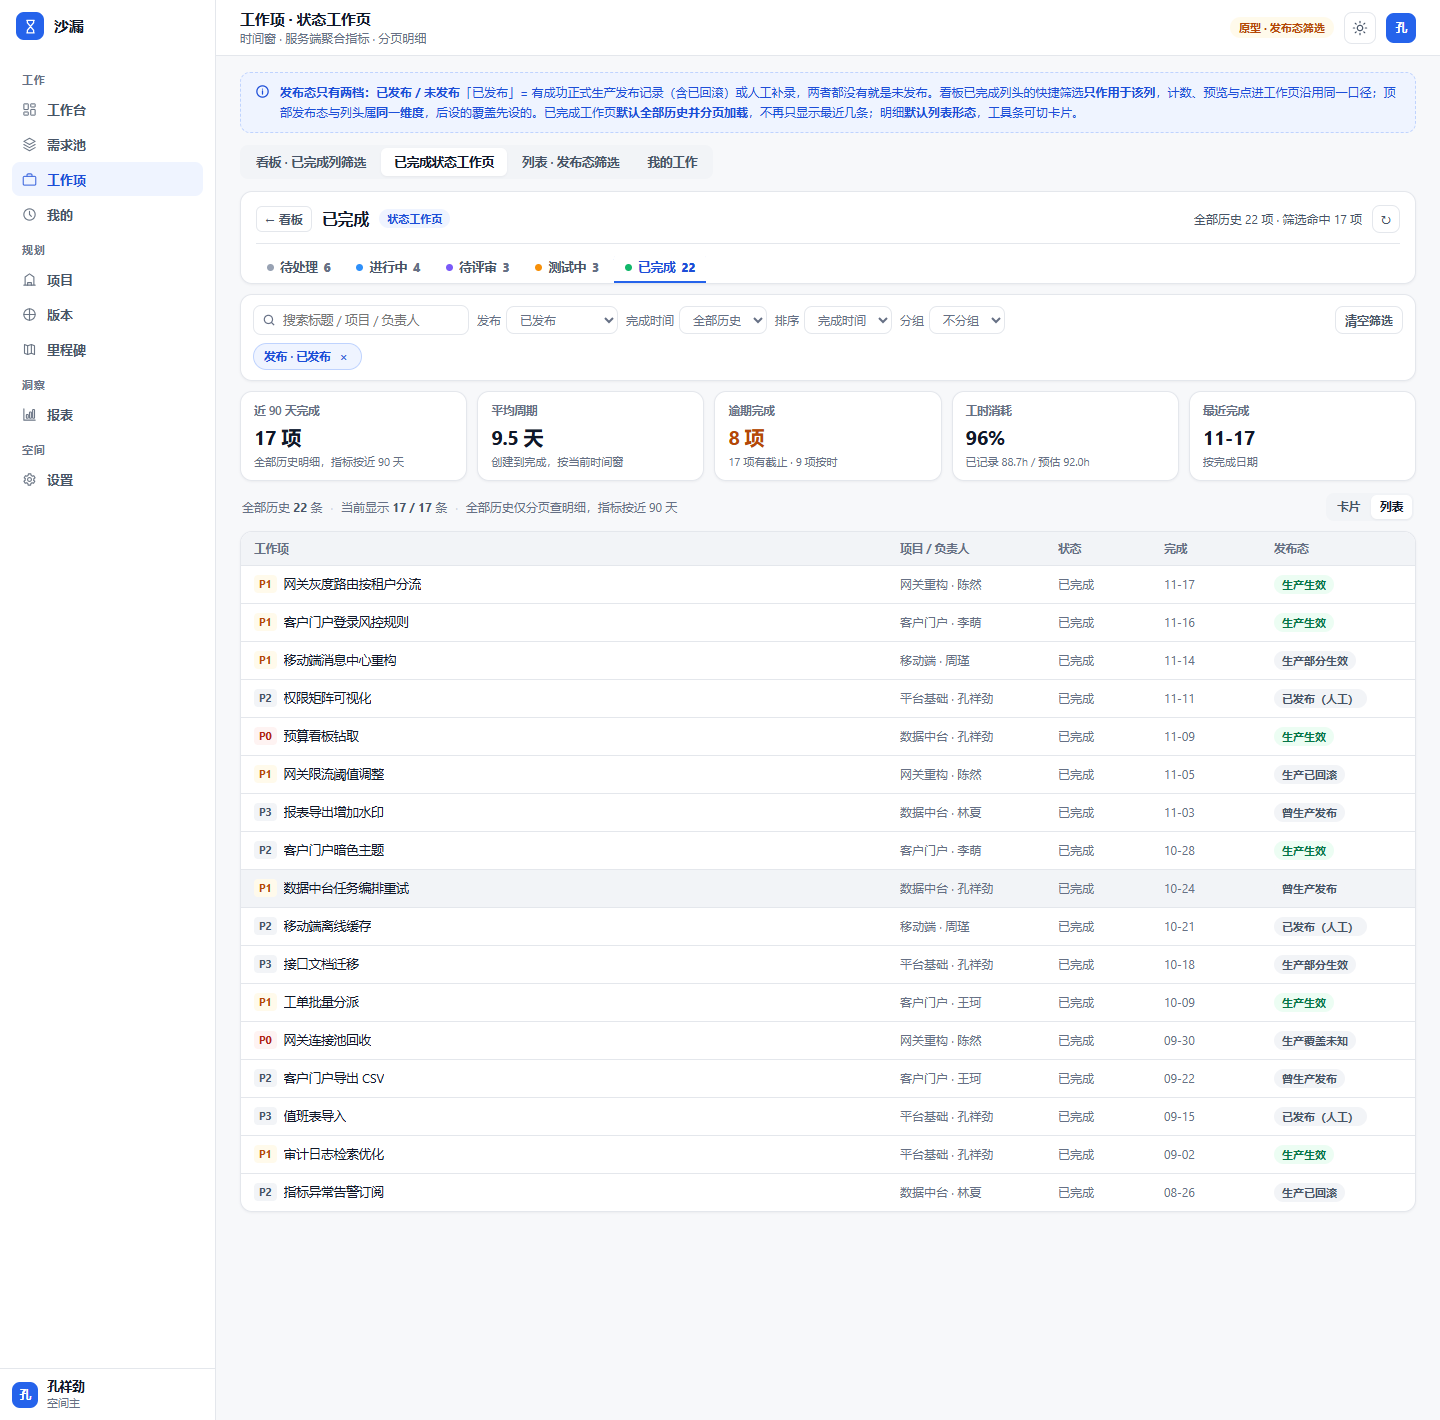
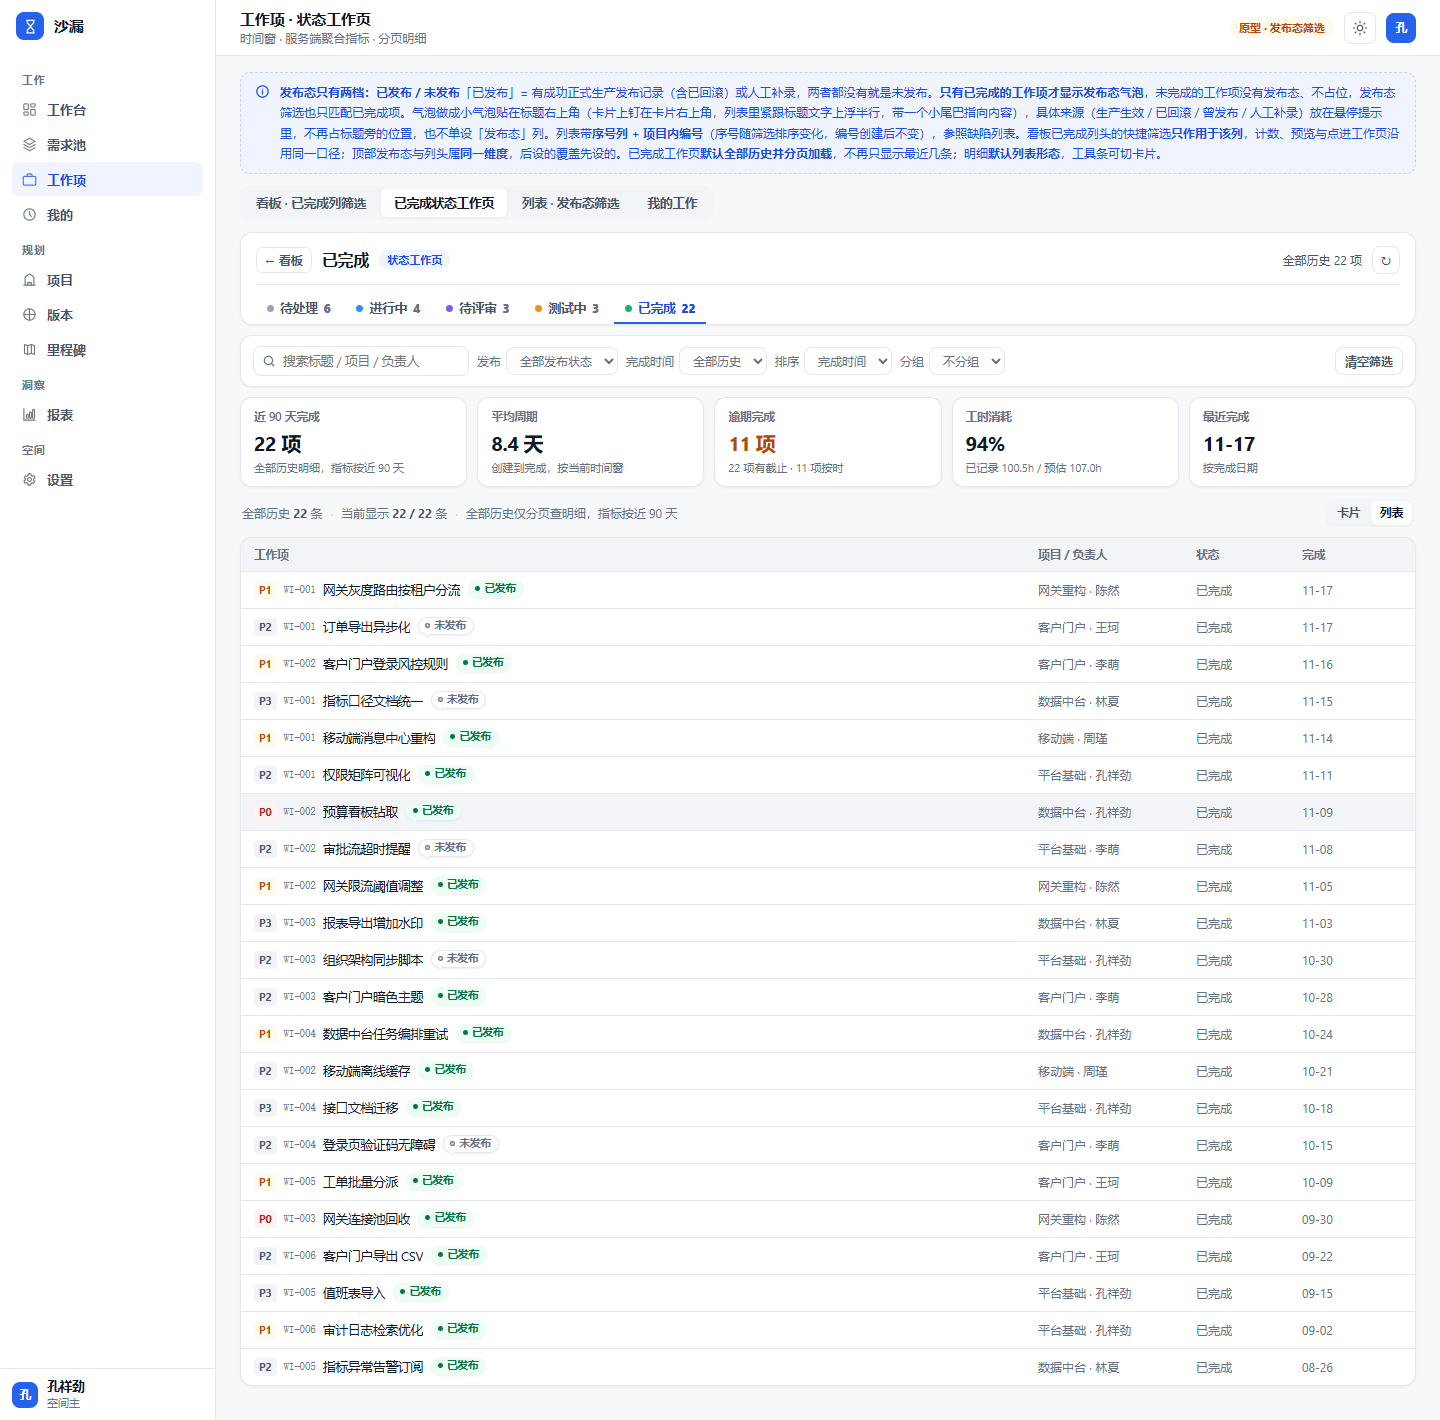
docs: 发布态改为标题右上气泡，且只标已完成工作项

diff --git a/docs/preview/workitems-pubstate-preview-2026-11-17.html b/docs/preview/workitems-pubstate-preview-2026-11-17.html
@@ -119,7 +119,8 @@ input:focus,select:focus{outline:2px solid var(--primary);outline-offset:1px;bor
 .tcard::before{content:"";position:absolute;left:0;top:0;bottom:0;width:3px;background:var(--stripe,var(--border-strong));}
 .tcard:hover{border-color:var(--border-strong);}
 .tcard.is-done::before{background:var(--success);}
-.tcard-head{display:flex;align-items:flex-start;gap:7px;}
+.tcard-head{display:flex;align-items:flex-start;gap:7px;padding-right:12px;}
+.tcard.is-done .tcard-head{padding-right:62px;}
 .pri{flex:0 0 auto;font-size:10.5px;font-weight:700;padding:1px 5px;border-radius:4px;line-height:16px;background:var(--surface-sunken);color:var(--text-2);}
 .pri.P0{background:var(--danger-soft);color:var(--danger-fg);}
 .pri.P1{background:var(--warning-soft);color:var(--warning-fg);}
@@ -142,6 +143,18 @@ input:focus,select:focus{outline:2px solid var(--primary);outline-offset:1px;bor
 .tag.tag-neutral{background:var(--surface-sunken);color:var(--text-2);}
 .tag.tag-ghost{background:transparent;border-color:var(--border);color:var(--text-3);font-weight:500;}
 .tag.cat{background:var(--surface-sunken);color:var(--text-3);font-weight:500;}
+/* 发布态二值气泡：贴在卡片右上角 / 标题文字右上，带小尾巴指向内容 */
+.pub-bubble{position:relative;display:inline-flex;align-items:center;gap:4px;height:18px;padding:0 7px 0 6px;border-radius:var(--r-pill);border:1px solid var(--border);background:var(--surface);color:var(--text-3);font-size:10.5px;font-weight:650;line-height:1;white-space:nowrap;box-shadow:0 1px 2px rgba(15,23,42,.07);}
+.pub-bubble.pin{position:absolute;top:8px;right:10px;z-index:2;}
+.pub-bubble::after{content:"";position:absolute;left:5px;bottom:-2.5px;width:5px;height:5px;background:inherit;border-right:1px solid var(--border);border-bottom:1px solid var(--border);transform:rotate(45deg);border-radius:0 0 1px 0;}
+.pub-bubble .bd{width:5px;height:5px;border-radius:50%;background:currentColor;flex:0 0 auto;}
+.pub-bubble.is-on{background:var(--success-soft);border-color:transparent;color:var(--success-fg);}
+.pub-bubble.is-on::after{border-color:transparent;}
+.pub-bubble:not(.is-on) .bd{background:transparent;box-shadow:inset 0 0 0 1.4px var(--text-3);}
+/* 标题右上：气泡上浮到标题文字的上缘，紧跟标题、不挤占第二行 */
+.row2 .r1 > .pub-bubble,.wc-row .t > .pub-bubble{flex:0 0 auto;align-self:flex-start;margin:-1px 0 0 1px;}
+.legend .pub-bubble{position:static;box-shadow:none;}
+.legend .pub-bubble::after{display:none;}
 /* ---------- 工作页 ---------- */
 .wc-head{padding:13px 15px 0;display:flex;flex-direction:column;gap:10px;}
 .wc-head-top{display:flex;align-items:center;gap:10px;flex-wrap:wrap;}
@@ -179,12 +192,12 @@ input:focus,select:focus{outline:2px solid var(--primary);outline-offset:1px;bor
 .wc-group-head{display:flex;align-items:center;gap:8px;padding:8px 2px 2px;font-size:12px;font-weight:700;color:var(--text-2);}
 .wc-group-head .n{font-size:11.5px;font-weight:600;color:var(--text-3);}
 .wc-list{background:var(--surface);border:1px solid var(--border);border-radius:var(--r-lg);overflow:hidden;box-shadow:var(--shadow-xs);}
-.wc-row{display:grid;grid-template-columns:minmax(0,1fr) 148px 96px 100px 128px;align-items:center;gap:10px;padding:9px 13px;border-bottom:1px solid var(--border);font-size:12.5px;}
+.wc-row{display:grid;grid-template-columns:minmax(0,1fr) 148px 96px 100px;align-items:center;gap:10px;padding:9px 13px;border-bottom:1px solid var(--border);font-size:12.5px;}
 .wc-row:last-child{border-bottom:0;}
 .wc-row:hover{background:var(--surface-hover);}
 .wc-row-head{background:var(--surface-sunken);font-size:11.5px;font-weight:650;color:var(--text-3);text-transform:none;}
 .wc-row .t{display:flex;align-items:center;gap:7px;min-width:0;}
-.wc-row .t span{overflow:hidden;text-overflow:ellipsis;white-space:nowrap;}
+.wc-row .t > .t-title{overflow:hidden;text-overflow:ellipsis;white-space:nowrap;min-width:0;}
 .wc-row .muted{color:var(--text-3);font-size:12px;}
 .wc-empty{display:flex;flex-direction:column;align-items:center;justify-content:center;gap:8px;padding:46px 16px;background:var(--surface);border:1px solid var(--border);border-radius:var(--r-lg);color:var(--text-3);text-align:center;}
 .wc-empty h3{font-size:14px;font-weight:650;color:var(--text);}
@@ -201,6 +214,10 @@ td{padding:10px 13px;border-bottom:1px solid var(--border);vertical-align:middle
 .row2 .r1{display:flex;align-items:center;gap:7px;min-width:0;font-weight:600;color:var(--text);}
 .row2 .r1 > span:first-child{overflow:hidden;text-overflow:ellipsis;white-space:nowrap;}
 .row2 .r2{display:flex;align-items:center;gap:8px;flex-wrap:wrap;font-size:11.5px;color:var(--text-3);}
+.row2 .r1 > .t-title{overflow:hidden;text-overflow:ellipsis;white-space:nowrap;min-width:0;}
+th.col-no,td.col-no{width:46px;color:var(--text-3);font-variant-numeric:tabular-nums;}
+td.col-no{font-weight:600;}
+.wi-no{font-family:ui-monospace,SFMono-Regular,Menlo,monospace;font-size:10.5px;color:var(--text-3);letter-spacing:.01em;flex:0 0 auto;}
 tbody tr:last-child td{border-bottom:0;}
 tbody tr:hover td{background:var(--surface-hover);}
 tr.grprow td{background:var(--surface-sunken);font-weight:700;font-size:12px;padding:7px 13px;}
@@ -277,7 +294,7 @@ td.muted{color:var(--text-3);}
     <main class="content">
       <div class="proto-banner">
         <svg width="15" height="15" viewBox="0 0 24 24" fill="none" stroke="currentColor" stroke-width="2" stroke-linecap="round"><circle cx="12" cy="12" r="9"/><path d="M12 8h.01M12 11v5"/></svg>
-        <span><b>发布态只有两档：已发布 / 未发布</b>「已发布」= 有成功正式生产发布记录（含已回滚）或人工补录，两者都没有就是未发布。看板已完成列头的快捷筛选<b>只作用于该列</b>，计数、预览与点进工作页沿用同一口径；顶部发布态与列头属<b>同一维度</b>，后设的覆盖先设的。已完成工作页<b>默认全部历史并分页加载</b>，不再只显示最近几条；明细<b>默认列表形态</b>，工具条可切卡片。</span>
+        <span><b>发布态只有两档：已发布 / 未发布</b>「已发布」= 有成功正式生产发布记录（含已回滚）或人工补录，两者都没有就是未发布。<b>只有已完成的工作项才显示发布态气泡</b>，未完成的工作项没有发布态、不占位，发布态筛选也只匹配已完成项。气泡做成小气泡贴在标题右上角（卡片上钉在卡片右上角，列表里紧跟标题文字上浮半行，带一个小尾巴指向内容），具体来源（生产生效 / 已回滚 / 曾发布 / 人工补录）放在悬停提示里，不再占标题旁的位置，也不单设「发布态」列。列表带<b>序号列 + 项目内编号</b>（序号随筛选排序变化，编号创建后不变），参照缺陷列表。看板已完成列头的快捷筛选<b>只作用于该列</b>，计数、预览与点进工作页沿用同一口径；顶部发布态与列头属<b>同一维度</b>，后设的覆盖先设的。已完成工作页<b>默认全部历史并分页加载</b>，不再只显示最近几条；明细<b>默认列表形态</b>，工具条可切卡片。</span>
       </div>
 
       <div class="view-tabs" role="tablist" aria-label="切换原型视图">
@@ -314,12 +331,10 @@ td.muted{color:var(--text-3);}
         <div class="chips" id="boardChips" hidden></div>
         <div class="board" id="boardCols"></div>
         <div class="legend">
-          <span><b>已发布</b> 的判定只有一条：正式生产发布记录（成功）或人工补录</span>
-          <span class="tag tag-success">生产生效</span>
-          <span class="tag tag-neutral">生产已回滚</span>
-          <span class="tag tag-neutral">曾生产发布</span>
-          <span class="tag tag-neutral">已发布（人工）</span>
-          <span class="tag tag-ghost">未发布</span>
+          <span>发布态只标在已完成的工作项上（气泡贴在标题右上 / 卡片右上），悬停可看来源：</span>
+          <span class="pub-bubble is-on"><i class="bd" aria-hidden="true"></i>已发布</span>
+          <span class="pub-bubble"><i class="bd" aria-hidden="true"></i>未发布</span>
+          <span><b>已发布</b> = 成功正式生产发布记录（含已回滚）、曾生产发布或人工补录</span>
         </div>
       </section>
 
@@ -478,13 +493,21 @@ var OPEN_RAW = [
 ];
 
 var TASKS = [];
+/* 项目内编号：创建后不变（与列表序号无关），同项目从 WI-001 起递增 */
+var PROJECT_NO = {};
+function nextItemNo(project){
+  PROJECT_NO[project] = (PROJECT_NO[project] || 0) + 1;
+  var s = String(PROJECT_NO[project]);
+  while(s.length < 3) s = "0" + s;
+  return "WI-" + s;
+}
 DONE_RAW.forEach(function(r, i){
-  TASKS.push({ id:"d"+(i+1), col:"done", title:r[0], type:r[1], pri:r[2], owner:r[3], project:r[4],
+  TASKS.push({ id:"d"+(i+1), no:nextItemNo(r[4]), col:"done", title:r[0], type:r[1], pri:r[2], owner:r[3], project:r[4],
     due:r[5], completed:r[6], state:r[7].state||"", ever:!!r[7].ever, manual:r[7].manual||null,
     cycle:r[7].cycle, logged:r[7].logged, est:r[7].est, progress:100 });
 });
 OPEN_RAW.forEach(function(r, i){
-  TASKS.push({ id:"o"+(i+1), col:r[0], title:r[1], type:r[2], pri:r[3], owner:r[4], project:r[5],
+  TASKS.push({ id:"o"+(i+1), no:nextItemNo(r[5]), col:r[0], title:r[1], type:r[2], pri:r[3], owner:r[4], project:r[5],
     due:r[6], completed:"", state:r[7].state||"", ever:!!r[7].ever, manual:r[7].manual||null,
     progress:r[7].progress||0, cycle:0, logged:0, est:0 });
 });
@@ -516,23 +539,24 @@ function isPublished(t){
 }
 function pubMatch(t, v){
   if(!v) return true;
+  /* 未完成的工作项没有发布态，筛选与气泡口径一致 */
+  if(t.col !== "done") return false;
   return v==="published" ? isPublished(t) : !isPublished(t);
 }
 var STATE_META = { effective:["生产生效","tag-success"], partial:["生产部分生效","tag-neutral"], rolled_back:["生产已回滚","tag-neutral"], unknown:["生产覆盖未知","tag-neutral"] };
-function badgeHTML(t){
-  var meta = STATE_META[t.state || ""];
-  var html = "";
-  if(meta) html += '<span class="tag ' + meta[1] + '" title="仅来自正式生产发布记录">' + meta[0] + '</span>';
-  if(t.ever) html += '<span class="tag tag-neutral" title="历史发布事实，不代表当前生产生效">曾生产发布</span>';
-  if(t.manual && !meta && !t.ever){
-    var m = t.manual;
-    html += '<span class="tag tag-neutral" title="人工补录的历史发布事实（' + esc(m.at + " · " + m.by + "：" + m.reason) + '）；不代表当前生产生效，也不参与需求交付统计">已发布（人工）</span>';
-  }
-  return html;
+function pubDetail(t){
+  if(t.state && STATE_META[t.state]) return STATE_META[t.state][0];
+  if(t.ever) return "曾生产发布";
+  if(t.manual) return "人工补录 · " + t.manual.at + " · " + t.manual.by;
+  return "无生效生产发布记录";
 }
-function pubTagHTML(t){
-  var b = badgeHTML(t);
-  return b || '<span class="tag tag-ghost">未发布</span>';
+/* 发布态二值气泡：只有已完成的工作项才有发布态，未完成的不显示；来源与判定放悬停提示 */
+function pubBubble(t, place){
+  if(t.col !== "done") return "";
+  var on = isPublished(t);
+  var tip = on ? "已发布 · " + pubDetail(t) : "未发布 · 无生效生产发布记录";
+  return '<span class="pub-bubble' + (on ? " is-on" : "") + (place ? " " + place : "") + '" title="' + esc(tip) + '">' +
+    '<i class="bd" aria-hidden="true"></i>' + (on ? "已发布" : "未发布") + '</span>';
 }
 function pubWord(t){ return isPublished(t) ? "已发布" : "未发布"; }
 function statusName(t){ return colMeta(t.col).name; }
@@ -700,8 +724,9 @@ function cardHTML(t){
   }
   return '<article class="tcard' + (t.col === "done" ? " is-done" : "") + '" data-task="' + t.id + '" tabindex="0" style="--stripe:' +
       (t.col === "done" ? "var(--success)" : (t.due && t.due < TODAY ? "var(--danger)" : "var(--border-strong)")) + '">' +
+    pubBubble(t, "pin") +
     '<div class="tcard-head">' + priTag(t) + '<h3 class="tcard-title">' + esc(t.title) + '</h3></div>' +
-    '<div class="tcard-tags">' + typeTag(t) + '<span class="tag cat">' + esc(t.project) + '</span>' + badgeHTML(t) + '</div>' +
+    '<div class="tcard-tags">' + typeTag(t) + '<span class="tag cat">' + esc(t.project) + '</span></div>' +
     '<div class="tcard-meta">' + meta.join("") + '</div>' +
     '<div class="tcard-foot"><div class="prog' + (p >= 100 ? " full" : "") + '"><span class="bar"><i style="width:' + p + '%"></i></span><span class="pv">' + p + '%</span></div>' +
       avatarOf(t.owner) + '</div>' +
@@ -842,7 +867,7 @@ function renderWorkpage(){
   }else{
     var groups = groupRows(shown);
     if(wc.layout === "list"){
-      var head = '<div class="wc-row wc-row-head"><span>工作项</span><span>项目 / 负责人</span><span>状态</span><span class="hide-sm">' + (done ? "完成" : "截止") + '</span><span>发布态</span></div>';
+      var head = '<div class="wc-row wc-row-head"><span>工作项</span><span>项目 / 负责人</span><span>状态</span><span class="hide-sm">' + (done ? "完成" : "截止") + '</span></div>';
       rowsEl.innerHTML = '<div class="wc-list">' + head + groups.map(function(g){
         return (g.key ? '<div class="wc-group-head"><span>' + esc(g.key) + '</span><span class="n">' + g.rows.length + ' 项</span></div>' : "") +
           g.rows.map(function(t){ return wcRowHTML(t); }).join("");
@@ -908,11 +933,11 @@ function groupRows(rows){
 }
 function wcRowHTML(t){
   return '<div class="wc-row">' +
-    '<div class="t">' + priTag(t) + '<span title="' + esc(t.title) + '">' + esc(t.title) + '</span></div>' +
+    '<div class="t">' + priTag(t) + '<span class="wi-no" title="项目内编号，创建后不变">' + esc(t.no) + '</span>' +
+      '<span class="t-title" title="' + esc(t.title) + '">' + esc(t.title) + '</span>' + pubBubble(t) + '</div>' +
     '<div class="muted">' + esc(t.project) + ' · ' + esc(t.owner) + '</div>' +
     '<div class="muted">' + statusName(t) + '</div>' +
     '<div class="muted hide-sm">' + (t.col === "done" ? t.completed.slice(5) : (t.due || "—").slice(5)) + '</div>' +
-    '<div>' + pubTagHTML(t) + '</div>' +
   '</div>';
 }
 
@@ -943,19 +968,19 @@ function renderList(){
     document.getElementById("listChips").hidden = !(state.globalPub || state.list.q || state.list.status || state.list.project);
     return;
   }
-  wrap.innerHTML = '<table><thead><tr><th>工作项</th><th>状态</th><th>发布态</th><th>截止 / 完成</th><th>工时 / 进度</th></tr></thead><tbody>' +
-    rows.map(function(t){
+  wrap.innerHTML = '<table><thead><tr><th class="col-no">序号</th><th>工作项</th><th>状态</th><th>截止 / 完成</th><th>工时 / 进度</th></tr></thead><tbody>' +
+    rows.map(function(t, i){
       return '<tr>' +
+        '<td class="col-no" title="当前列表序号，随筛选和排序变化">' + (i + 1) + '</td>' +
         '<td><div class="row2"><div class="r1"><span class="pri-dot" style="background:' + (t.pri==="P0"?"var(--danger)":(t.pri==="P1"?"var(--warning)":"var(--border-strong)")) + '"></span>' +
-          '<span title="' + esc(t.title) + '">' + esc(t.title) + '</span>' + typeTag(t) + '</div>' +
-          '<div class="r2"><span>' + esc(t.project) + '</span><span>负责人 ' + esc(t.owner) + '</span></div></div></td>' +
+          '<span class="t-title" title="' + esc(t.title) + '">' + esc(t.title) + '</span>' + pubBubble(t) + typeTag(t) + '</div>' +
+          '<div class="r2"><span class="wi-no" title="项目内编号，创建后不变">' + esc(t.no) + '</span><span>' + esc(t.project) + '</span><span>负责人 ' + esc(t.owner) + '</span></div></div></td>' +
         '<td class="muted">' + statusName(t) + '</td>' +
-        '<td>' + pubTagHTML(t) + '</td>' +
         '<td class="muted">' + (t.col === "done" ? "完成 " + t.completed.slice(5) : (t.due ? "截止 " + t.due.slice(5) : "未设置")) + '</td>' +
         '<td class="muted">' + (t.col === "done" ? "实际 " + hm(t.logged) + " / 预估 " + hm(t.est) : progressOf(t) + "% · " + (t.logged ? "累计 " + hm(t.logged) : "未计时")) + '</td>' +
       '</tr>';
     }).join("") +
-    '</tbody></table><div class="list-foot">共 ' + rows.length + ' 条 · 单次最多 100 条 · 发布态与看板、工作页同源</div>';
+    '</tbody></table><div class="list-foot">共 ' + rows.length + ' 条 · 单次最多 100 条 · 发布态只标已完成项，与看板、工作页同源 · 序号随排序变化，编号不变</div>';
 
   var bits = [];
   if(state.globalPub) bits.push(chipHTML("发布态：" + (state.globalPub==="published"?"已发布":"未发布"), "list-pub"));
@@ -1001,21 +1026,20 @@ function renderMine(){
   var done = rows.filter(function(t){ return t.col === "done"; });
   function block(label, list){
     if(!list.length) return "";
-    return '<tr class="grprow"><td colspan="4">' + label + '<span class="n">' + list.length + ' 项</span></td></tr>' +
+    return '<tr class="grprow"><td colspan="3">' + label + '<span class="n">' + list.length + ' 项</span></td></tr>' +
       list.map(function(t){
         return '<tr>' +
           '<td><div class="row2"><div class="r1"><span class="pri-dot" style="background:' + (t.pri==="P0"?"var(--danger)":(t.pri==="P1"?"var(--warning)":"var(--border-strong)")) + '"></span>' +
-            '<span title="' + esc(t.title) + '">' + esc(t.title) + '</span></div>' +
-            '<div class="r2"><span>' + esc(t.project) + '</span><span>' + statusName(t) + '</span></div></div></td>' +
-          '<td>' + pubTagHTML(t) + '</td>' +
+            '<span class="t-title" title="' + esc(t.title) + '">' + esc(t.title) + '</span>' + pubBubble(t) + '</div>' +
+            '<div class="r2"><span class="wi-no" title="项目内编号，创建后不变">' + esc(t.no) + '</span><span>' + esc(t.project) + '</span><span>' + statusName(t) + '</span></div></div></td>' +
           '<td class="muted">' + (t.col === "done" ? "完成 " + t.completed.slice(5) : (t.due ? "截止 " + t.due.slice(5) : "未设置")) + '</td>' +
           '<td class="muted">' + (t.col === "done" ? hm(t.logged) + " / " + hm(t.est) : progressOf(t) + "%") + '</td>' +
         '</tr>';
       }).join("");
   }
-  wrap.innerHTML = '<table><thead><tr><th>工作项</th><th>发布态</th><th>截止 / 完成</th><th>工时 / 进度</th></tr></thead><tbody>' +
+  wrap.innerHTML = '<table><thead><tr><th>工作项</th><th>截止 / 完成</th><th>工时 / 进度</th></tr></thead><tbody>' +
     block("进行中", open) + block("已完成", done) +
-    '</tbody></table><div class="list-foot">共 ' + rows.length + ' 项 · 发布态筛选与看板、列表共用一套口径</div>';
+    '</tbody></table><div class="list-foot">共 ' + rows.length + ' 项 · 发布态只标已完成项 · 发布态筛选与看板、列表共用一套口径</div>';
 }
 
 /* ==================== 事件 ==================== */
